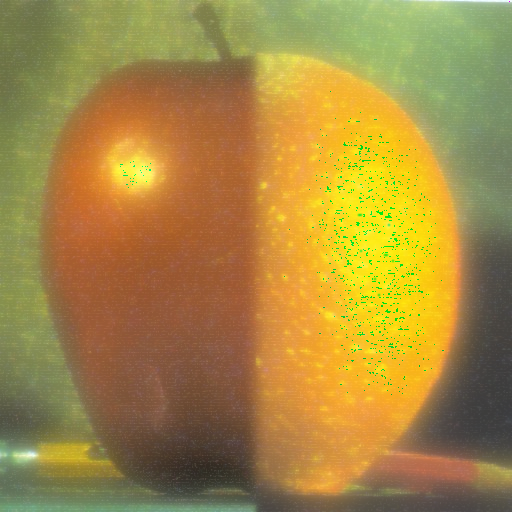
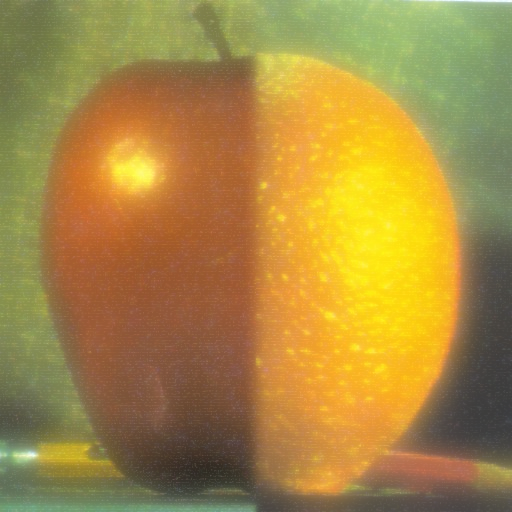
refactored directories

diff --git a/LAB 3/Lescano_lab03/test3.py b/LAB 3/Lescano_lab03/test3.py
@@ -1,4 +1,4 @@
-# In this code, I will resort to using pyramids instead of stacks
+# In this code, I will convert everything back to stacks
 
 import cv2
 import numpy as np
@@ -15,7 +15,6 @@ def generate_gaussian_pyramid(image, levels, kernel_size):
 
     for i in range(levels):
         blurred_image = gaussian_blur(image_pyramid[-1], kernel_size)
-        blurred_image = cv2.resize(blurred_image, (blurred_image.shape[1] // 2, blurred_image.shape[0] // 2))
         image_pyramid.append(blurred_image)
 
     return image_pyramid
@@ -24,22 +23,17 @@ def generate_gaussian_pyramid(image, levels, kernel_size):
 # --------------------------------------------------------------------------------------------------------------- LAPLACIAN PYRAMID
 def generate_laplacian_pyramid(gaussian_pyramid, levels):    # Levels = 5
 
-    image_pyramid = [gaussian_pyramid[levels - 1]]
+    image_pyramid = [gaussian_pyramid[levels - 1]]      # Order: [L4, L3, L2, L1, L0]
 
-    for i in range(levels - 1, 0, -1):
-        # Upscale the images manually
-        upscaled_img = cv2.resize(gaussian_pyramid[i], (gaussian_pyramid[i-1].shape[1], gaussian_pyramid[i-1].shape[0]))
+    for i in range(levels - 1, 0, -1):      # Iteration: i = 4, i = 3, i = 2, i = 1
 
         # Construct Laplacian images
-        result = cv2.subtract(gaussian_pyramid[i - 1], upscaled_img)
+        result = cv2.subtract(gaussian_pyramid[i - 1], gaussian_pyramid[i])
         image_pyramid.append(result)
 
     return image_pyramid
 
 """""
-cv2.resize(src, (desired width, desired height)) = cv2.resize(L4, (L3 width, L3 height)) => upscaled
-ang result kay upscaled image sang L4, same size na sa L3
-
 L = Level
 
 gaussian_pyramid = [    L0 = original image,
@@ -60,6 +54,7 @@ image_pyramid = [       L4,
 
 """""
 
+
 # --------------------------------------------------------------------------------------------------------------- BLENDING
 def concat_images(pyramid_1, pyramid_2):       # pyramid_1 is apple, pyramid_2 is orange
 
@@ -69,7 +64,7 @@ def concat_images(pyramid_1, pyramid_2):       # pyramid_1 is apple, pyramid_2 i
     for left_img, right_img in zip(pyramid_1, pyramid_2):
         columns = left_img.shape[1]
 
-        result = np.hstack((left_img[ : , 0 : columns//2], right_img[ : , columns//2 : ]))
+        result = np.hstack((left_img[ : , 0 : int(columns/2)], right_img[ : , int(columns/2) : ]))
 
         concatenated_images.append(result)
     
@@ -81,11 +76,20 @@ def blend_images(concat_result, levels):
 
     # Iterate over the Laplacian images and add them to the blended image
     for i in range(1, levels):
+        
+        # This is in pyramids
+        # blended_image = cv2.pyrUp(blended_image)                    # upsample current image. so in iteration 1, current image is concat_result[0]
+        # blended_image = cv2.add(concat_result[i], blended_image)
+
+        
+        
+        
         # Upscale the blended image manually to match the size of the Laplacian image
-        upscaled_blend = cv2.resize(blended_image, (concat_result[i].shape[1], concat_result[i].shape[0]))
+        # upscaled_blend = cv2.resize(blended_image, (concat_result[i].shape[1], concat_result[i].shape[0]))
         
         # Add the upscaled blended image and the Laplacian image at the current level
-        blended_image = cv2.add(upscaled_blend, concat_result[i])
+        # blended_image = upscaled_blend + concat_result[i]
+        blended_image = cv2.add(blended_image, concat_result[i])
 
     return blended_image
 
@@ -131,9 +135,9 @@ def test_visualizations(img1_gaussian_pyramid, img2_gaussian_pyramid, img1_lapla
 
 def show_blended_image(blended_image):
 
-    cv2.namedWindow("Pyramid Blending")
-    cv2.moveWindow("Pyramid Blending", 30, 30)
-    cv2.imshow("Pyramid Blending", blended_image)
+    cv2.namedWindow("Pyramid_blending")
+    cv2.moveWindow("Pyramid_blending", 30, 30)
+    cv2.imshow("Pyramid_blending", blended_image)
 
     cv2.waitKey(0)
     cv2.destroyAllWindows()
@@ -154,23 +158,38 @@ def main():
     kernel_size = GAUSSIAN_KERNEL_SIZE
 
     # Generate Gaussian pyramid of the two images
-    img1_gaussian_pyramid = generate_gaussian_pyramid(image_1, levels, kernel_size)         # apple
-    img2_gaussian_pyramid = generate_gaussian_pyramid(image_2, levels, kernel_size)         # orange
+    img1_gaussian_pyramid = generate_gaussian_pyramid(image_1, levels, kernel_size)     # apple
+    img2_gaussian_pyramid = generate_gaussian_pyramid(image_2, levels, kernel_size)     # orange
+
+    # visualize_pyramid(img1_gaussian_pyramid, 'Gaussian Apple')
+    # visualize_pyramid(img2_gaussian_pyramid, 'Gaussian Orange')
 
     # Generate Laplacian pyramid of the two images
-    img1_laplacian_pyramid = generate_laplacian_pyramid(img1_gaussian_pyramid, levels)      # apple
-    img2_laplacian_pyramid = generate_laplacian_pyramid(img2_gaussian_pyramid, levels)      # orange
+    img1_laplacian_pyramid = generate_laplacian_pyramid(img1_gaussian_pyramid, levels)    # apple
+    img2_laplacian_pyramid = generate_laplacian_pyramid(img2_gaussian_pyramid, levels)    # orange
+
+    # visualize_pyramid(img1_laplacian_pyramid, 'Laplacian Apple')
+    # visualize_pyramid(img2_laplacian_pyramid, 'Laplacian Orange')
 
     # Concatenating the half images
     concat_result = concat_images(img1_laplacian_pyramid, img2_laplacian_pyramid)
 
+    # visualize_pyramid(concat_result, 'Concatenated Apple & Orange')
+
+    # Blending
+    blended_image = blend_images(concat_result, levels)
+    # cv2.imwrite('output/stack_blend.png', blended_image)
+    show_blended_image(blended_image) 
+
+
+    """ 
+
+
+
     # Visualizations
     # test_visualizations(img1_gaussian_pyramid, img2_gaussian_pyramid, img1_laplacian_pyramid, img2_laplacian_pyramid, concat_result)
     
-    # Blending
-    blended_image = blend_images(concat_result, levels)
-    cv2.imwrite('output/Lescano_lab03_blendvert.png', blended_image)
-    show_blended_image(blended_image)
+    """
 
 if __name__ == "__main__":
     main()

diff --git a/LAB 3/Lescano_lab03/test2.py b/LAB 3/Lescano_lab03/test2.py
@@ -53,31 +53,39 @@ def reconstruct(laplacian_pyr):
 if __name__ == '__main__':
     # Step-1
     # Load the two images
-    img1 = cv2.imread('examples/sky.png')
+    img1 = cv2.imread('examples/Lescano_lab03_crazyone.png')
     img1 = cv2.resize(img1, (1800, 1000))
-    img2 = cv2.imread('examples/plane.jpg')
+    img2 = cv2.imread('examples/Lescano_lab03_crazytwo.png')
     img2 = cv2.resize(img2, (1800, 1000))
+    mask = cv2.imread('examples/mask.png')
+    mask = cv2.resize(mask, (1800, 1000))
 
-    # Create the mask
-    mask = np.zeros((1000,1800,3), dtype='float32')
-    mask[250:500,640:1440,:] = (1,1,1)
-    
+    """ cv2.imshow('Left', img1)
+    cv2.imshow('Right', img2)
+    cv2.imshow('Mask', mask)
+    cv2.waitKey(0)
+    cv2.destroyAllWindows() """
+
     num_levels = 7
     
-
-
     # For image-1, calculate Gaussian and Laplacian
-    # gaussian_pyr_1 = gaussian_pyramid(img1, num_levels)
-    # laplacian_pyr_1 = laplacian_pyramid(gaussian_pyr_1)
+    """ gaussian_pyr_1 = gaussian_pyramid(img1, num_levels)
+    laplacian_pyr_1 = laplacian_pyramid(gaussian_pyr_1) """
 
     # Try using my program
     gaussian_pyr_1 = generate_gaussian_pyramid(img1, num_levels, GAUSSIAN_KERNEL_SIZE)
     laplacian_pyr_1 = generate_laplacian_pyramid(gaussian_pyr_1, num_levels)
 
-
-
-
+    """ for i, level in enumerate(gaussian_pyr_1):
+        cv2.imshow(f'Gaussian level {i}', level)
+        cv2.waitKey(0)
+        cv2.destroyAllWindows()
     
+    for i, level in enumerate(laplacian_pyr_1):
+        cv2.imshow(f'Laplacian level {i}', level)
+        cv2.waitKey(0)
+        cv2.destroyAllWindows() """
+
     # For image-2, calculate Gaussian and Laplacian
     # gaussian_pyr_2 = gaussian_pyramid(img2, num_levels)
     # laplacian_pyr_2 = laplacian_pyramid(gaussian_pyr_2)
@@ -86,13 +94,25 @@ if __name__ == '__main__':
     gaussian_pyr_2 = generate_gaussian_pyramid(img2, num_levels, GAUSSIAN_KERNEL_SIZE)
     laplacian_pyr_2 = generate_laplacian_pyramid(gaussian_pyr_2, num_levels)
 
-
-
-
+    """ for i, level in enumerate(gaussian_pyr_2):
+        cv2.imshow(f'Gaussian level {i}', level)
+        cv2.waitKey(0)
+        cv2.destroyAllWindows()
+    
+    for i, level in enumerate(laplacian_pyr_2):
+        cv2.imshow(f'Laplacian level {i}', level)
+        cv2.waitKey(0)
+        cv2.destroyAllWindows() """
 
     # Calculate the Gaussian pyramid for the mask image and reverse it.
     mask_pyr_final = gaussian_pyramid(mask, num_levels)
     mask_pyr_final.reverse()
+
+    """ for i, level in enumerate(mask_pyr_final):
+        cv2.imshow(f'Gaussian level {i}', level)
+        cv2.waitKey(0)
+        cv2.destroyAllWindows() """
+    
 
     # Blend the images
     add_laplace = blend(laplacian_pyr_1,laplacian_pyr_2,mask_pyr_final)

diff --git a/LAB 3/Lescano_lab03/tempCodeRunnerFile.py b/LAB 3/Lescano_lab03/tempCodeRunnerFile.py
@@ -1,1 +1,12 @@
-pyramid_type
+gaussian_pyr_2 = gaussian_pyramid(img2, num_levels)
+    laplacian_pyr_2 = laplacian_pyramid(gaussian_pyr_2)
+
+    for i, level in enumerate(gaussian_pyr_2):
+        cv2.imshow(f'Gaussian level {i}', level)
+        cv2.waitKey(0)
+        cv2.destroyAllWindows()
+    
+    for i, level in enumerate(laplacian_pyr_2):
+        cv2.imshow(f'Laplacian level {i}', level)
+        cv2.waitKey(0)
+        cv2.destroyAllWindows()
